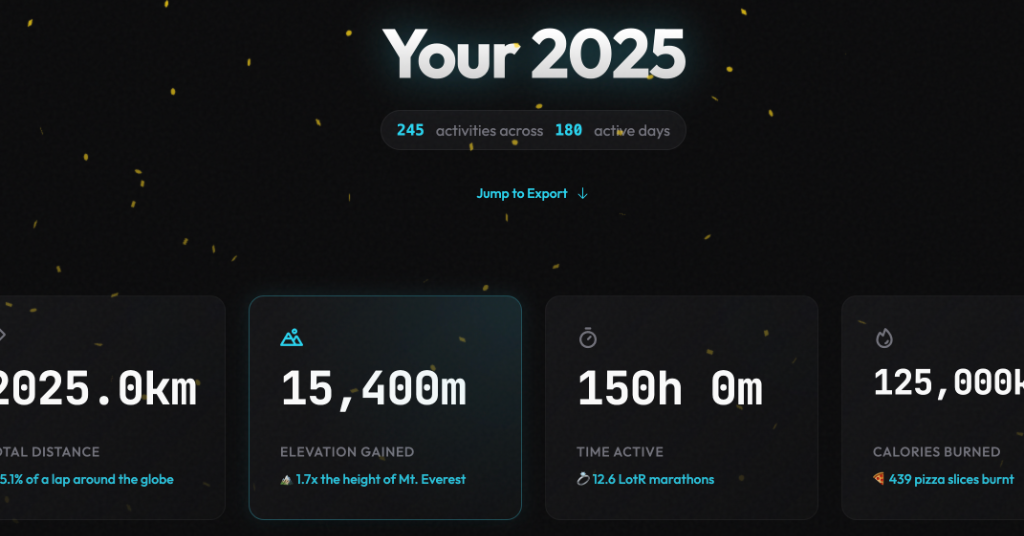
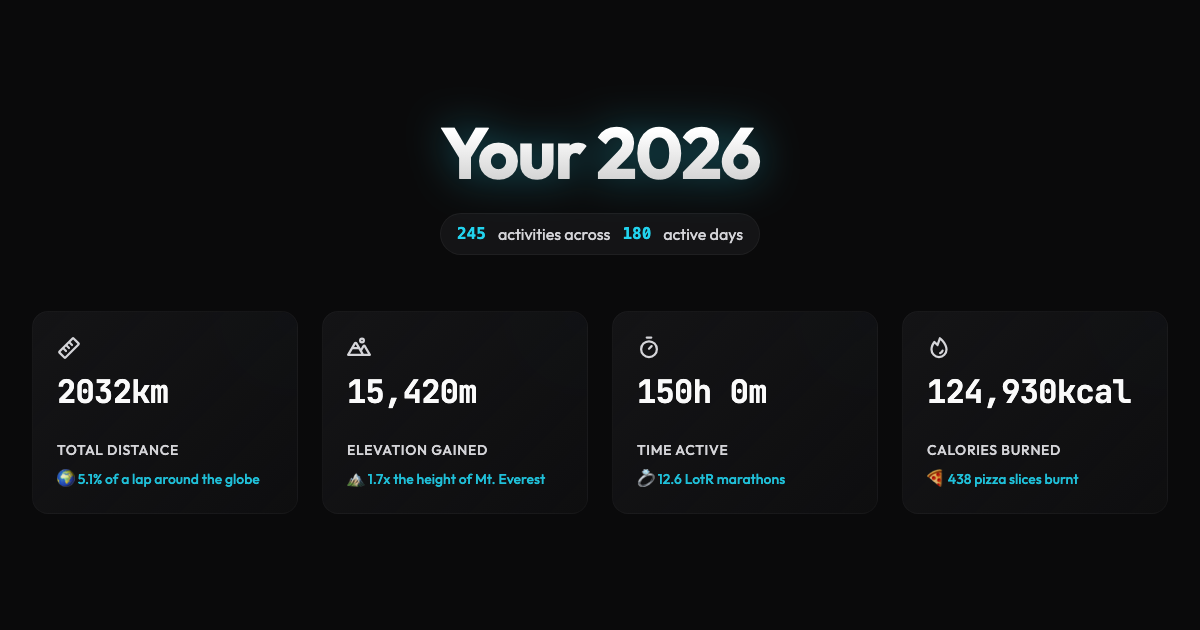
fix: regenerate the OG image at 1200x630 for TARGET_YEAR and describe it in meta tags
The image said 2025 and cropped the stat cards. pnpm og-image rebuilds it
from the demo dashboard, and og:image width, height and alt are now set.

diff --git a/scripts/og-image.ts b/scripts/og-image.ts
@@ -1,0 +1,44 @@
+// Regenerates static/og-image.png from the demo dashboard. Needs `pnpm build && pnpm preview` running.
+// Usage: pnpm og-image [baseUrl]
+import { chromium } from '@playwright/test';
+import { OG_IMAGE_WIDTH, OG_IMAGE_HEIGHT } from '../src/lib/constants/og.ts';
+
+const baseUrl = process.argv[2] ?? 'http://localhost:4173';
+
+// Keeps only the heading and the four main stats, centred in the frame.
+const COMPOSITION_CSS = `
+	.noise-overlay, main > div > :not(header, [data-testid='main-stats']), header .mt-8 {
+		display: none !important;
+	}
+	main > div {
+		min-height: ${OG_IMAGE_HEIGHT}px !important;
+		display: flex !important;
+		flex-direction: column;
+		justify-content: center;
+		gap: 56px;
+		padding-top: 0 !important;
+		padding-bottom: 0 !important;
+	}
+	header, [data-testid='main-stats'] { margin: 0 !important; }
+	* { transition: none !important; }
+	.stat-card { padding: 24px !important; justify-content: flex-start !important; }
+	.stat-value { font-size: 2rem !important; }
+`;
+
+const browser = await chromium.launch();
+const page = await browser.newPage({
+	viewport: { width: OG_IMAGE_WIDTH, height: OG_IMAGE_HEIGHT }
+});
+
+await page.goto(baseUrl);
+await page.getByRole('button', { name: /demo data/ }).click();
+// Stat cards fade in on a JS spring, so a fixed wait can catch them half transparent.
+await page.waitForFunction(() =>
+	[...document.querySelectorAll<HTMLElement>('[data-testid="main-stats"] .stat-card')].every(
+		(card) => Number(card.style.opacity) > 0.99
+	)
+);
+await page.addStyleTag({ content: COMPOSITION_CSS });
+await page.screenshot({ path: 'static/og-image.png' });
+
+await browser.close();

diff --git a/src/lib/components/MetaTags.svelte b/src/lib/components/MetaTags.svelte
@@ -1,11 +1,15 @@
 <script lang="ts">
 	import { TARGET_YEAR } from '#lib/constants/time.js';
+	import { OG_IMAGE_WIDTH, OG_IMAGE_HEIGHT } from '#lib/constants/og.js';
 
 	let title = $derived(`ActiveYear - Your ${TARGET_YEAR} in Sport`);
 	let description =
 		'Transform your Garmin activity data into beautiful, shareable infographics. Private and secure: all processing happens in your browser, so your data never leaves your device.';
 	let url = 'https://activeyear.app';
 	let image = 'https://activeyear.app/og-image.png';
+	let imageAlt = $derived(
+		`ActiveYear dashboard: Your ${TARGET_YEAR} heading above total distance, elevation, time and calories`
+	);
 </script>
 
 <svelte:head>
@@ -21,6 +25,9 @@
 	<meta property="og:title" content={title} />
 	<meta property="og:description" content={description} />
 	<meta property="og:image" content={image} />
+	<meta property="og:image:width" content={String(OG_IMAGE_WIDTH)} />
+	<meta property="og:image:height" content={String(OG_IMAGE_HEIGHT)} />
+	<meta property="og:image:alt" content={imageAlt} />
 
 	<!-- Twitter -->
 	<meta property="twitter:card" content="summary_large_image" />
@@ -28,4 +35,5 @@
 	<meta property="twitter:title" content={title} />
 	<meta property="twitter:description" content={description} />
 	<meta property="twitter:image" content={image} />
+	<meta property="twitter:image:alt" content={imageAlt} />
 </svelte:head>

diff --git a/src/lib/constants/og.ts b/src/lib/constants/og.ts
@@ -1,0 +1,2 @@
+export const OG_IMAGE_WIDTH = 1200;
+export const OG_IMAGE_HEIGHT = 630;

diff --git a/CLAUDE.md b/CLAUDE.md
@@ -28,6 +28,7 @@ pnpm format                                # Prettier write
 - **Imports**: `#lib/...` for `src/lib` (the `package.json` imports alias), and a `.js` extension on local imports (`from './format.js'`)
 - **Types**: Define in `src/lib/types/index.ts`
 - **Constants**: UPPER_SNAKE_CASE, define in `src/lib/constants/`. The season year is `TARGET_YEAR` in `src/lib/constants/time.ts`; derive year copy from it, never a literal year.
+  When `TARGET_YEAR` changes, regenerate `static/og-image.png` with `pnpm og-image` while `pnpm preview` runs.
 - **Functions**: Single level of abstraction principle; keep utils pure with no side effects
 - **Error types**: Use discriminated unions (`type: 'error-code'`)
 - **Comments**: Only when non-obvious; avoid redundant explanations
